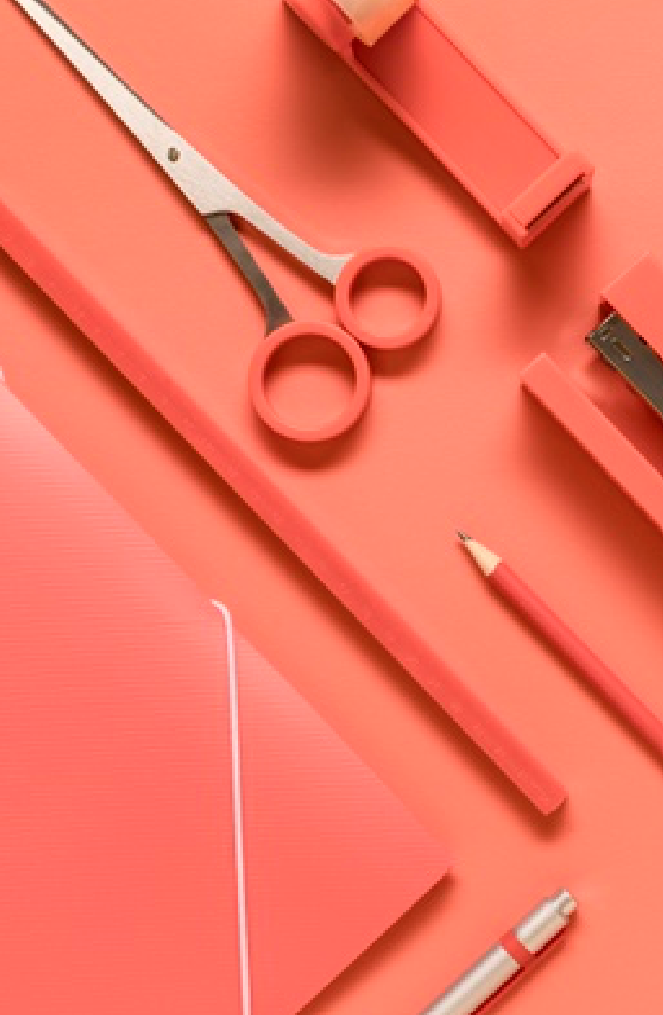
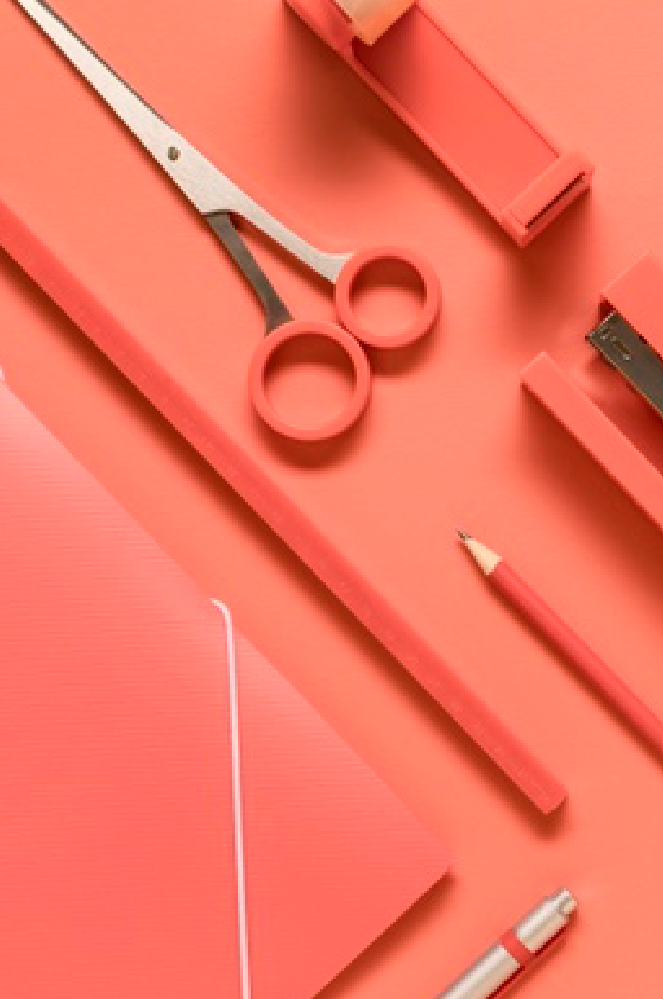
調整ムズイ

diff --git a/client/pages/mailsend.vue b/client/pages/mailsend.vue
@@ -17,7 +17,9 @@
                 メールアドレス受信確認用のメールを送信しました。
               </p>
               <p class="exText">
-                ”メールアドレス”へ受信確認用のメールを送信しました。<br />メールをご確認していただき、メールに記載されたＵＲＬをクリックして、Projectへの登録を完了してください。
+                ”メールアドレス”へ受信確認用のメールを送信しました。<br />
+                メールをご確認していただき、メールに記載されたＵＲＬをクリックして、<br />
+                Projectへの登録を完了してください。
               </p>
             </vs-row>
           </vs-col>
@@ -29,7 +31,7 @@
             vs-align="center"
             vs-w="4"
           >
-            <img src="../assets/mailsend.png" class="mailsend" />
+            <div><img src="../assets/mailsend.png" class="mailsend" /></div>
           </vs-col>
         </vs-row>
       </div>
@@ -49,31 +51,32 @@ export default Vue.extend({})
 .mailsend {
   max-width: 100%;
   max-height: 100%;
-  object-fit: cover;
+  object-fit: contain;
 }
 .Project {
   font-family: HiraKakuStd-W8;
   margin-left: 5%;
-  position: static;
   font-size: 36px;
   text-align: left;
   color: #707070;
 }
 .mailsendman {
-  max-width: 50%;
-  margin: 0 auto;
+  margin: 10%;
+  margin-bottom: 5%;
   padding: 0 auto;
   object-fit: contain;
 }
 .conText {
   width: 100%;
   font-family: HiraginoSans-W7;
+  margin-bottom: 2%;
   font-size: 36px;
   color: #707070;
 }
 .exText {
   width: 100%;
   font-family: HiraginoSans-W5;
+  margin: 2%;
   font-size: 24px;
   color: #707070;
 }
